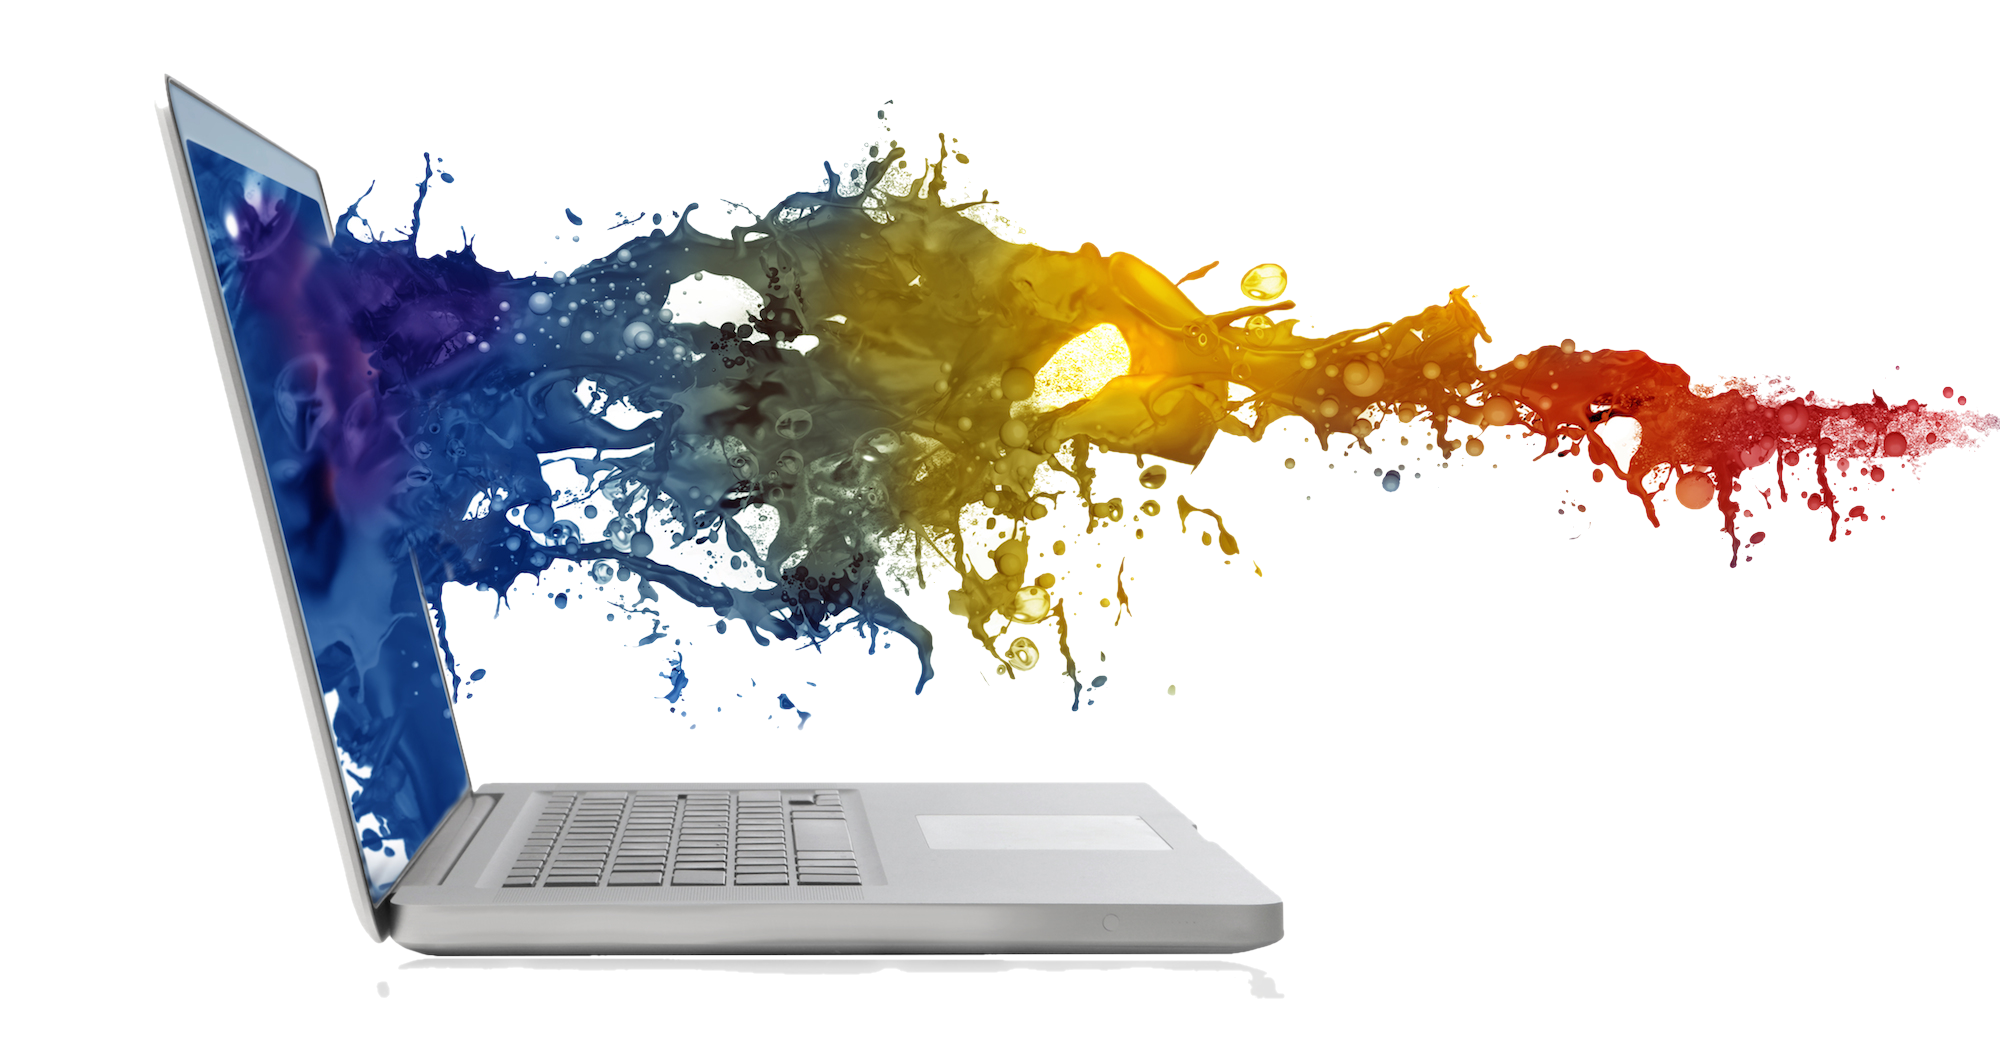
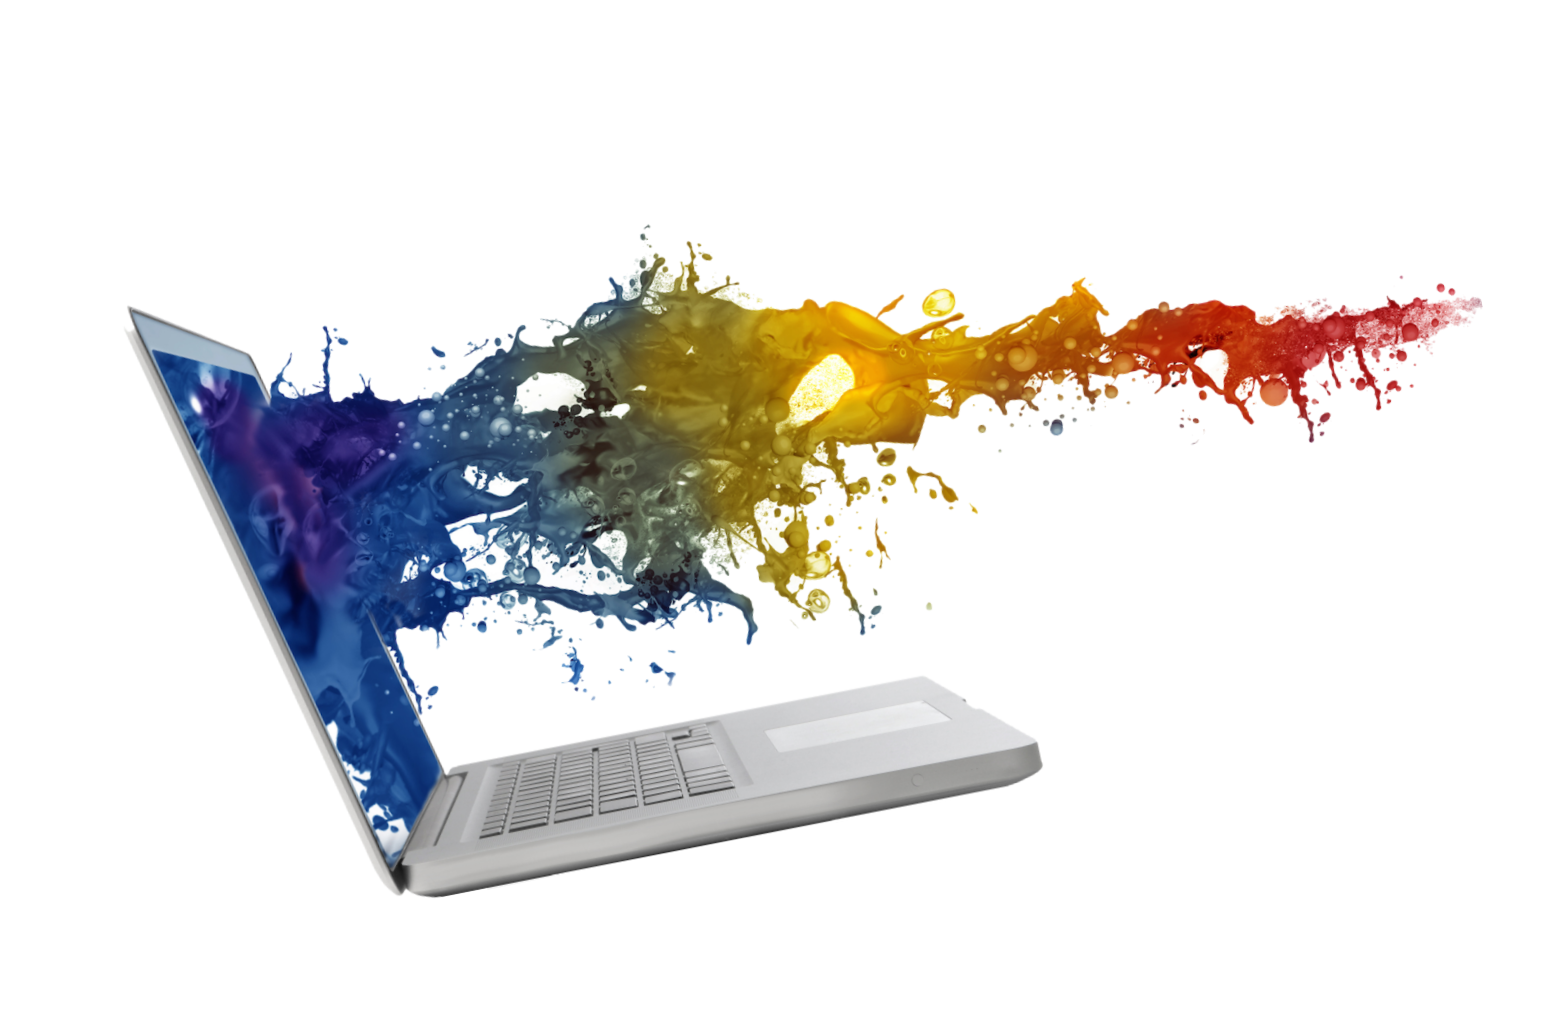
множественные правки

Changed region(s): [[0.0625, 0.0625, 1.0, 0.9688]]

diff --git a/css/style.css b/css/style.css
@@ -22,7 +22,7 @@
     background-color: #f0eeee;
     background-image: url(../img/headerbg2.png);
     background-repeat: no-repeat;
-    background-size: contain;
+    background-size: auto 100%;
 }
 
 .header_cont {
@@ -64,7 +64,7 @@
 }
 
 .title01 {
-    /*width: 456px;*/
+    width: 100%;
     margin-left: 16%;
 }
 
@@ -77,7 +77,7 @@
     line-height: 45.54px;
     letter-spacing: -0.6px;
     margin-bottom: 10%;
-    margin-top: 20%;
+    margin-top: 25%;
 }
 
 .title_text {
@@ -95,7 +95,7 @@
 .button {
     height: 52px;
     margin-top: 17px;
-    margin-bottom: 18%;
+    margin-bottom: 30%;
 
 }
 
@@ -161,7 +161,11 @@
 
 .skills {
     background: rgb(128,128,128);
-    background: linear-gradient(90deg, rgba(248, 249, 249,1) 50%, rgba(128,128,128,0) 50%, rgba(233, 233, 233,1) 50%);
+    background: linear-gradient(90deg, rgba(248, 249, 249,1) 50%, rgba(128,128,128,0) 50%, rgb(194, 191, 191) 50%);
+}
+
+.con_skills_custom {
+    padding: 0px;
 }
 
 .skillsLT {
@@ -173,10 +177,11 @@
     font-family: 'Montserrat';
     font-size: 28px;
     font-weight: 600;
-    line-height: 79.7px;
+    line-height: 28px;
     letter-spacing: 0.3px;
-    margin-top: 129.5px;
-    margin-bottom: 12.5px;
+    margin-top: 150px;
+    margin-bottom: 25px;
+    margin-left: 41%;
 }
 
 .Pbar_text {
@@ -188,13 +193,15 @@
     text-transform: uppercase;
     letter-spacing: 1.2px;
     margin-bottom: 9.5px;
-
+    margin-left: 41%;
 }
 
+
 .Pbar {
-    width: 475px;
+    width: 50%;
     height: 4px;
     margin-bottom: 29.5px;
+    margin-left: 41%;
 }
 
 
@@ -207,19 +214,11 @@
 }
 
 .skillsRT {
-    background-color:rgb(233, 233, 233);
+    background-image: url(../img/macbook2.jpg);
+    background-repeat: no-repeat;
+    background-size: cover;
 }
 
-.skillsRT_img {
-    margin-top: 20%;
-    margin-bottom: 20%;
-    margin-left: 5%;
-}
-
-.skillsRT_img img {
-    border-radius: 30px 10px;
-    width: 100%;
-}
 
 /*//////////////////////////////////////(SKILLS_END)///////////////////////////////////////////////////*/
 

diff --git a/index.html b/index.html
@@ -67,7 +67,7 @@
     </div>
 
     <div class="section skills">
-        <div class="container">
+        <div class="container-fluid con_skills_custom">
             <div class="row no-gutters">
                 <div class="col-6 skillsLT">
                     <div class="skillsLT_h5">Professional Skills</div>
@@ -85,8 +85,9 @@
                     </div>
                     
                 </div>
+
                 <div class="col-6 skillsRT">
-                    <div class="skillsRT_img"><img src="img/macbook.jpg" alt=""></div>
+                    
                 </div>
             </div>
         </div>
@@ -440,8 +441,9 @@
                         Piroll Design, Inc.
                     </div>
                     <div class="footer_style_11">
-                        © 2017 Piroll. All rights reserved.<br>
+                        © 2020 Piroll. All rights reserved.<br>
                         Designed by robirurk.
+                        ссылка на меня
                     </div>
                 </div>
 
